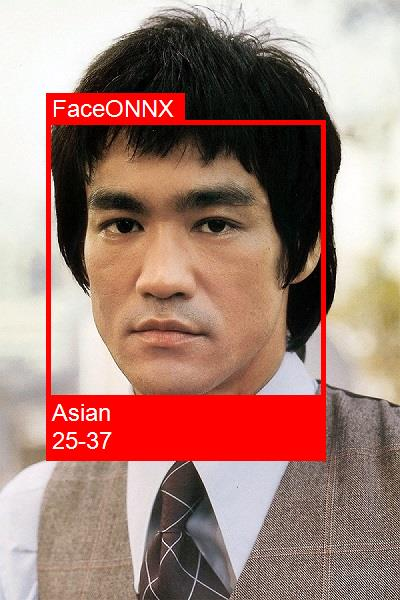
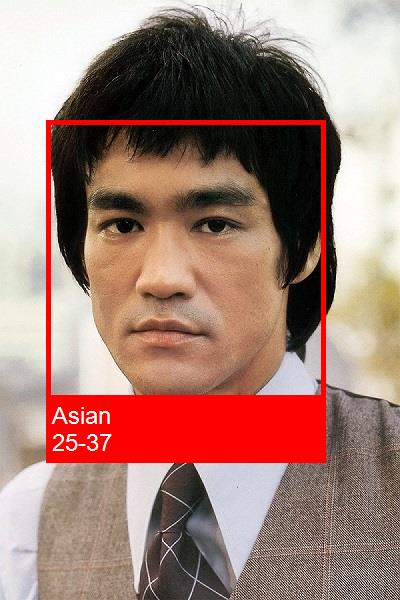
faceonnx

Changed region(s): [[0.12, 0.66, 0.81, 0.78], [0.09, 0.15, 0.48, 0.21]]

diff --git a/netstandard/FaceONNX.Examples/RaceAndAgeClassification/Program.cs b/netstandard/FaceONNX.Examples/RaceAndAgeClassification/Program.cs
@@ -1,8 +1,10 @@
 using FaceONNX;
-using FaceONNX.Core;
 using System;
 using System.Drawing;
 using System.IO;
+using UMapx.Core;
+using UMapx.Imaging;
+using UMapx.Visualization;
 
 namespace RaceAndAgeClassification
 {
@@ -54,7 +56,8 @@ namespace RaceAndAgeClassification
                         Labels = labels
                     };
 
-                    painter.Draw(bitmap, paintData);
+                    using var graphics = Graphics.FromImage(bitmap);
+                    painter.Draw(graphics, paintData);
                 }
 
                 bitmap.Save(Path.Combine(path, filename));
@@ -71,13 +74,15 @@ namespace RaceAndAgeClassification
 
         static string[] GetRaceAndAge(Bitmap image, Rectangle face)
         {
-            using var cropped = Imaging.Crop(image, face);
+            using var cropped = BitmapTransform.Crop(image, face);
             var points = _faceLandmarksExtractor.Forward(cropped);
             using var aligned = FaceLandmarksExtractor.Align(cropped, points);
             var race = _faceRaceClassifier.Forward(aligned);
-            var raceLabel = FaceRaceClassifier.Labels[race.Argmax()];
+            var maxRace = Matrice.Max(race, out int argmaxRace);
+            var raceLabel = FaceRaceClassifier.Labels[argmaxRace];
             var age = _faceAgeClassifier.Forward(aligned);
-            var ageLabel = FaceAgeClassifier.Labels[age.Argmax()];
+            var maxAge = Matrice.Max(age, out int argmaxAge);
+            var ageLabel = FaceAgeClassifier.Labels[argmaxAge];
 
             Console.WriteLine($"--> classified as [{raceLabel}] race and [{ageLabel}] age");
 

diff --git a/netstandard/FaceONNX.Examples/EmotionAndBeautyEstimation/Program.cs b/netstandard/FaceONNX.Examples/EmotionAndBeautyEstimation/Program.cs
@@ -1,9 +1,10 @@
 using FaceONNX;
-using FaceONNX.Core;
 using System;
 using System.Drawing;
 using System.IO;
 using System.Linq;
+using UMapx.Core;
+using UMapx.Imaging;
 
 namespace EmotionAndBeautyEstimation
 {
@@ -56,11 +57,12 @@ namespace EmotionAndBeautyEstimation
 
         static string[] GetEmotionAndBeauty(Bitmap image, Rectangle face)
         {
-            using var cropped = Imaging.Crop(image, face);
+            using var cropped = BitmapTransform.Crop(image, face);
             var points = _faceLandmarksExtractor.Forward(cropped);
             using var aligned = FaceLandmarksExtractor.Align(cropped, points);
             var emotion = _faceEmotionClassifier.Forward(aligned);
-            var emotionLabel = FaceEmotionClassifier.Labels[emotion.Argmax()];
+            var max = Matrice.Max(emotion, out int argmax);
+            var emotionLabel = FaceEmotionClassifier.Labels[argmax];
             var beauty = _faceBautyClassifier.Forward(aligned);
             var beautyLabel = $"{Math.Round(2 * beauty.Max(), 1)}/10.0";
 

diff --git a/netstandard/FaceONNX.Examples/FaceDetection/Program.cs b/netstandard/FaceONNX.Examples/FaceDetection/Program.cs
@@ -1,8 +1,8 @@
 using FaceONNX;
-using FaceONNX.Core;
 using System;
 using System.Drawing;
 using System.IO;
+using UMapx.Visualization;
 
 namespace FaceDetection
 {
@@ -15,7 +15,7 @@ namespace FaceDetection
             var path = @"..\..\..\results";
             Directory.CreateDirectory(path);
 
-            using var faceDetectorLight = new FaceDetectorLight(0.95f, 0.25f);
+            using var faceDetectorLight = new FaceDetectorLight(0.9f, 0.5f);
             var painter = new Painter()
             {
                 BoxPen = new Pen(Color.Yellow, 4),
@@ -36,7 +36,8 @@ namespace FaceDetection
                         Rectangle = rectangle,
                         Title = string.Empty
                     };
-                    painter.Draw(bitmap, paintData);
+                    using var graphics = Graphics.FromImage(bitmap);
+                    painter.Draw(graphics, paintData);
                 }
 
                 var filename = Path.GetFileName(file);

diff --git a/netstandard/FaceONNX.Examples/FaceEmbeddingsClassification/Program.cs b/netstandard/FaceONNX.Examples/FaceEmbeddingsClassification/Program.cs
@@ -1,9 +1,9 @@
 using FaceONNX;
-using FaceONNX.Core;
 using System;
 using System.Drawing;
 using System.IO;
 using System.Linq;
+using UMapx.Imaging;
 
 namespace FaceEmbeddingsClassification
 {
@@ -57,7 +57,7 @@ namespace FaceEmbeddingsClassification
         static float[] GetEmbedding(Bitmap image)
         {
             var faces = _faceDetectorLight.Forward(image);
-            using var cropped = Imaging.Crop(image, faces.First());
+            using var cropped = BitmapTransform.Crop(image, faces.First());
             var points = _faceLandmarksExtractor.Forward(cropped);
             using var aligned = FaceLandmarksExtractor.Align(cropped, points);
             return _faceEmbedder.Forward(aligned);

diff --git a/netstandard/FaceONNX.Examples/GenderClassification/Program.cs b/netstandard/FaceONNX.Examples/GenderClassification/Program.cs
@@ -1,9 +1,9 @@
 using FaceONNX;
-using FaceONNX.Core;
 using System;
 using System.Drawing;
 using System.IO;
 using System.Linq;
+using UMapx.Core;
 
 namespace GenderClassification
 {
@@ -38,7 +38,7 @@ namespace GenderClassification
                     Console.Write($"\t[Face #{i++}]: ");
 
                     var output = faceGenderClassifier.Forward(bitmap);
-                    var gender = Vector.Argmax(output);
+                    var max = Matrice.Max(output, out int gender);
                     var label = labels[gender];
 
                     Console.WriteLine($"--> classified as [{label}] gender with probability [{output.Max()}]");

diff --git a/netstandard/FaceONNX.Examples/FaceLandmarksExtraction/Program.cs b/netstandard/FaceONNX.Examples/FaceLandmarksExtraction/Program.cs
@@ -1,8 +1,8 @@
 using FaceONNX;
-using FaceONNX.Core;
 using System;
 using System.Drawing;
 using System.IO;
+using UMapx.Visualization;
 
 namespace FaceLandmarksExtraction
 {
@@ -44,7 +44,8 @@ namespace FaceLandmarksExtraction
                             Title = string.Empty,
                         };
 
-                        painter.Draw(bitmap, paintData);
+                        using var graphics = Graphics.FromImage(bitmap);
+                        painter.Draw(graphics, paintData);
                         bitmap.Save(Path.Combine(path, filename));
                     }
                 }

diff --git a/netstandard/FaceONNX.Gpu/face/utils/Embeddings.cs b/netstandard/FaceONNX.Gpu/face/utils/Embeddings.cs
@@ -2,7 +2,7 @@
 using System.Collections.Generic;
 using UMapx.Core;
 
-namespace FaceONNX.Core
+namespace FaceONNX
 {
     /// <summary>
     /// Defines the embeddings database.
@@ -137,8 +137,7 @@ namespace FaceONNX.Core
             // do job
             for (var i = 0; i < length; i++)
             {
-                // TODO:
-                var d = Distance.Euclidean(Vectors[i], vector);
+                var d = Distance.Cosine(Vectors[i], vector);
 
                 if (d > max)
                 {

diff --git a/netstandard/FaceONNX/face/utils/Embeddings.cs b/netstandard/FaceONNX/face/utils/Embeddings.cs
@@ -2,7 +2,7 @@
 using System.Collections.Generic;
 using UMapx.Core;
 
-namespace FaceONNX.Core
+namespace FaceONNX
 {
     /// <summary>
     /// Defines the embeddings database.
@@ -137,8 +137,7 @@ namespace FaceONNX.Core
             // do job
             for (var i = 0; i < length; i++)
             {
-                // TODO:
-                var d = Distance.Euclidean(Vectors[i], vector);
+                var d = Distance.Cosine(Vectors[i], vector);
 
                 if (d > max)
                 {
